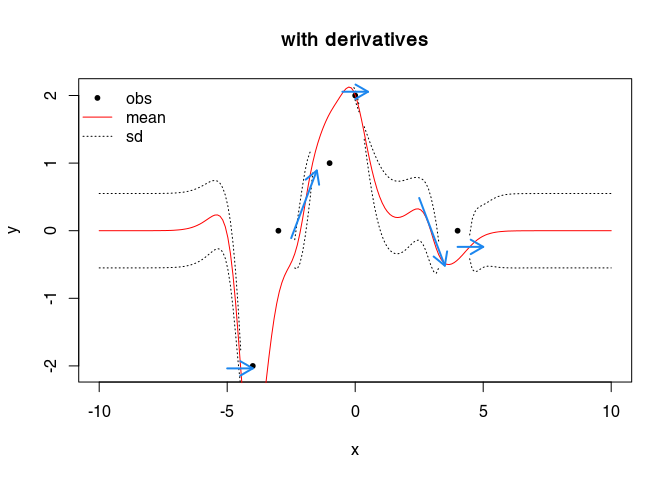
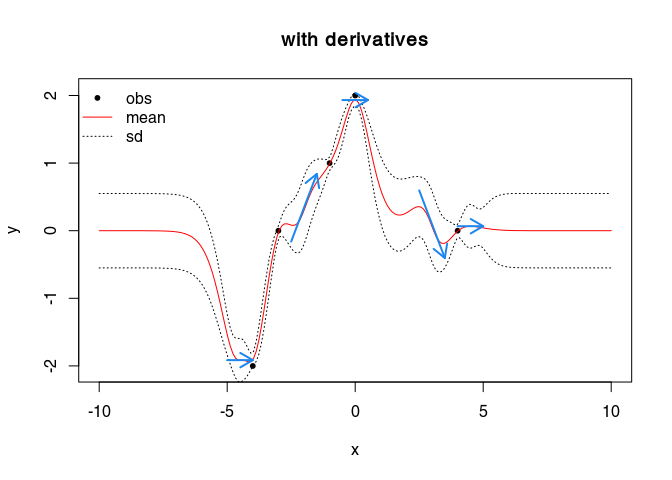
update

Changed region(s): [[0.25, 0.1875, 0.7812, 0.8125], [0.7188, 0.5312, 0.9062, 0.5625], [0.7188, 0.4062, 0.75, 0.4375]]

diff --git a/implementation.md b/implementation.md
@@ -1,7 +1,7 @@
 ---
 layout: page
 title: Implementation
-date: 2018-08-10
+date: 2026-10-30
 ---
 
 ## 1. Cholesky decomposition

diff --git a/index.md b/index.md
@@ -1,7 +1,7 @@
 ---
 layout: default
 title: Home
-date: 2018-03-07
+date: 2026-10-30
 ---
 
 # Gaussian Process Modelling

diff --git a/tutorial.md b/tutorial.md
@@ -1,7 +1,7 @@
 ---
 layout: page
 title: Tutorial
-date: 2018-02-12
+date: 2026-10-30
 ---
 
 
